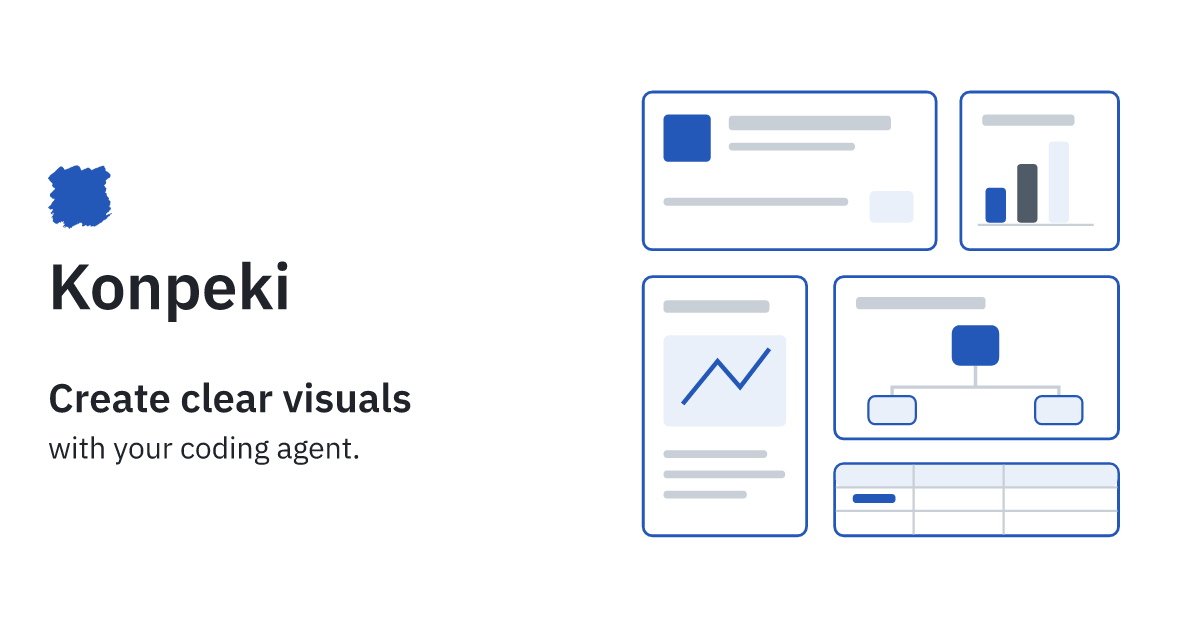
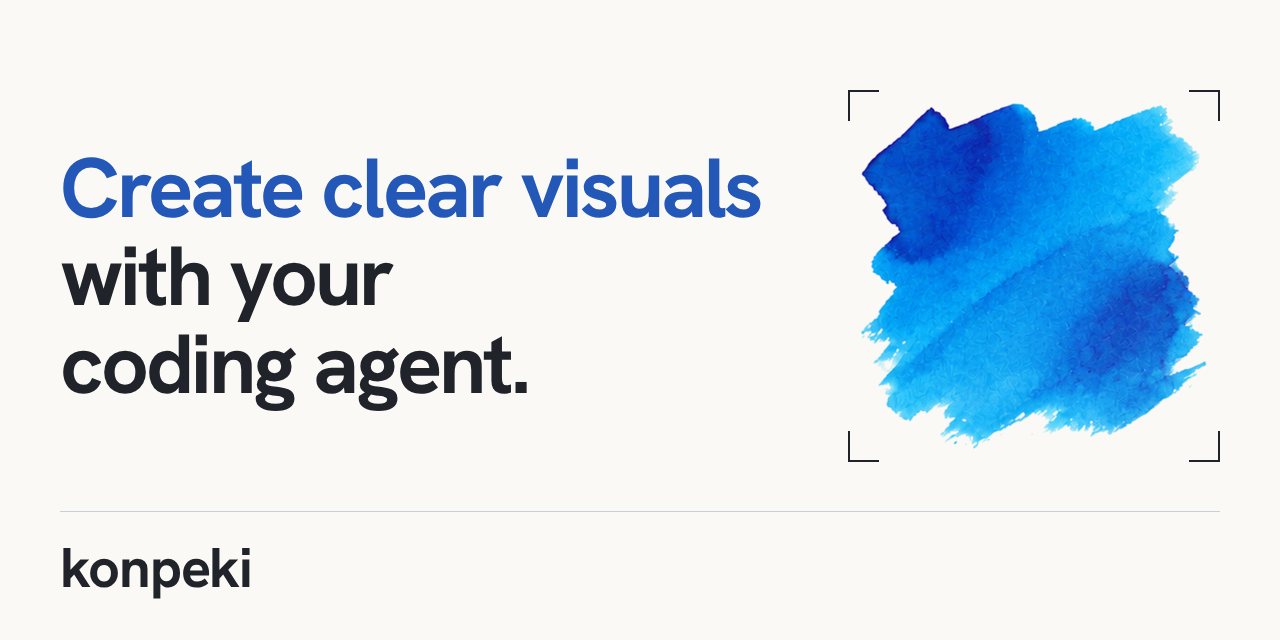
feat(branding): refresh Konpeki social preview

diff --git a/index.html b/index.html
@@ -16,14 +16,14 @@
     <meta property="og:url" content="https://vcfgdev.github.io/konpeki/" />
     <meta property="og:image" content="https://vcfgdev.github.io/konpeki/og.png" />
     <meta property="og:image:type" content="image/png" />
-    <meta property="og:image:width" content="1200" />
-    <meta property="og:image:height" content="630" />
-    <meta property="og:image:alt" content="Konpeki — Create clear visuals with your coding agent. Blue brush mark and editable canvas illustrations." />
+    <meta property="og:image:width" content="1280" />
+    <meta property="og:image:height" content="640" />
+    <meta property="og:image:alt" content="Create clear visuals with your coding agent. Blue brush mark on warm paper, with the konpeki wordmark below." />
     <meta name="twitter:card" content="summary_large_image" />
     <meta name="twitter:title" content="Konpeki — Visual review" />
     <meta name="twitter:description" content="Review agent-authored HTML visuals. Select an element, leave a comment, and copy feedback for your agent. No account needed." />
     <meta name="twitter:image" content="https://vcfgdev.github.io/konpeki/og.png" />
-    <meta name="twitter:image:alt" content="Konpeki — Create clear visuals with your coding agent. Blue brush mark and editable canvas illustrations." />
+    <meta name="twitter:image:alt" content="Create clear visuals with your coding agent. Blue brush mark on warm paper, with the konpeki wordmark below." />
     <title>Konpeki</title>
   </head>
   <body>
